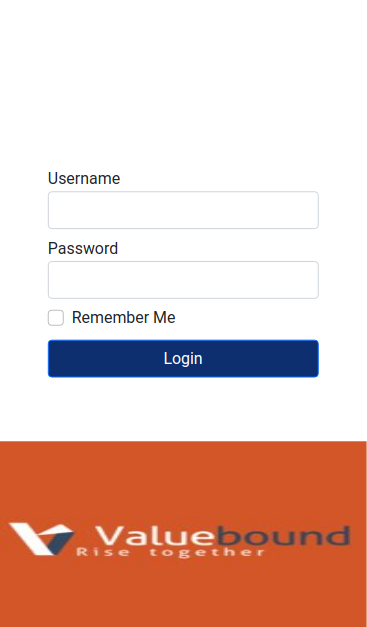
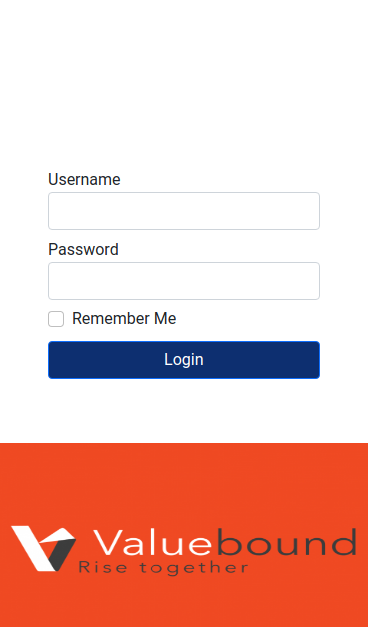
FEAT-0001 | Neelakanta Gouda Patil | updated responsive user login page

diff --git a/index.html b/index.html
@@ -32,7 +32,7 @@
                   </form>
             </div>
             <div class="col-md-8">
-                <img class="img" src="static/img/vb.jpg" alt="">
+                <img class="img" src="static/img/vb.png" alt="">
             </div>
         </div>
     </div>
